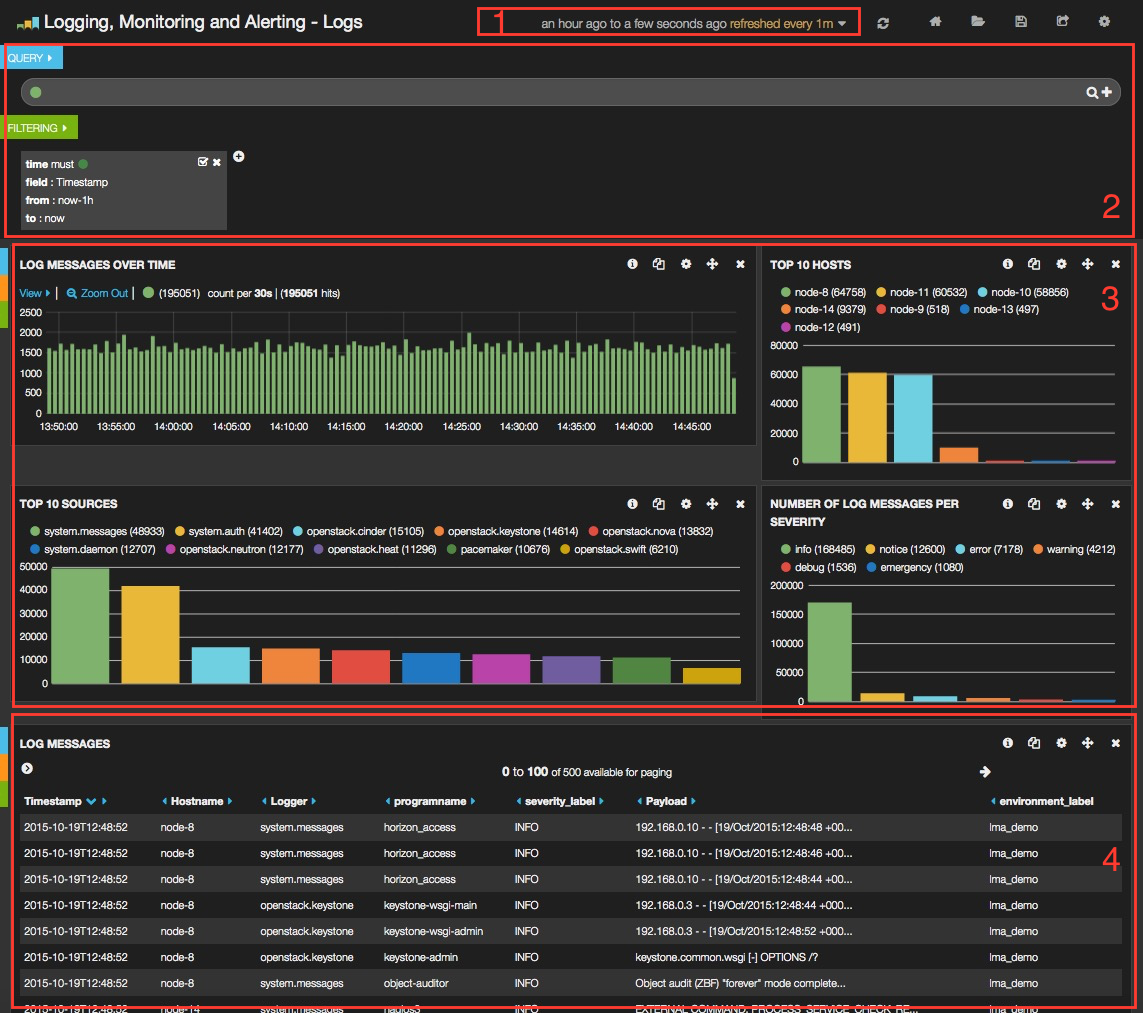
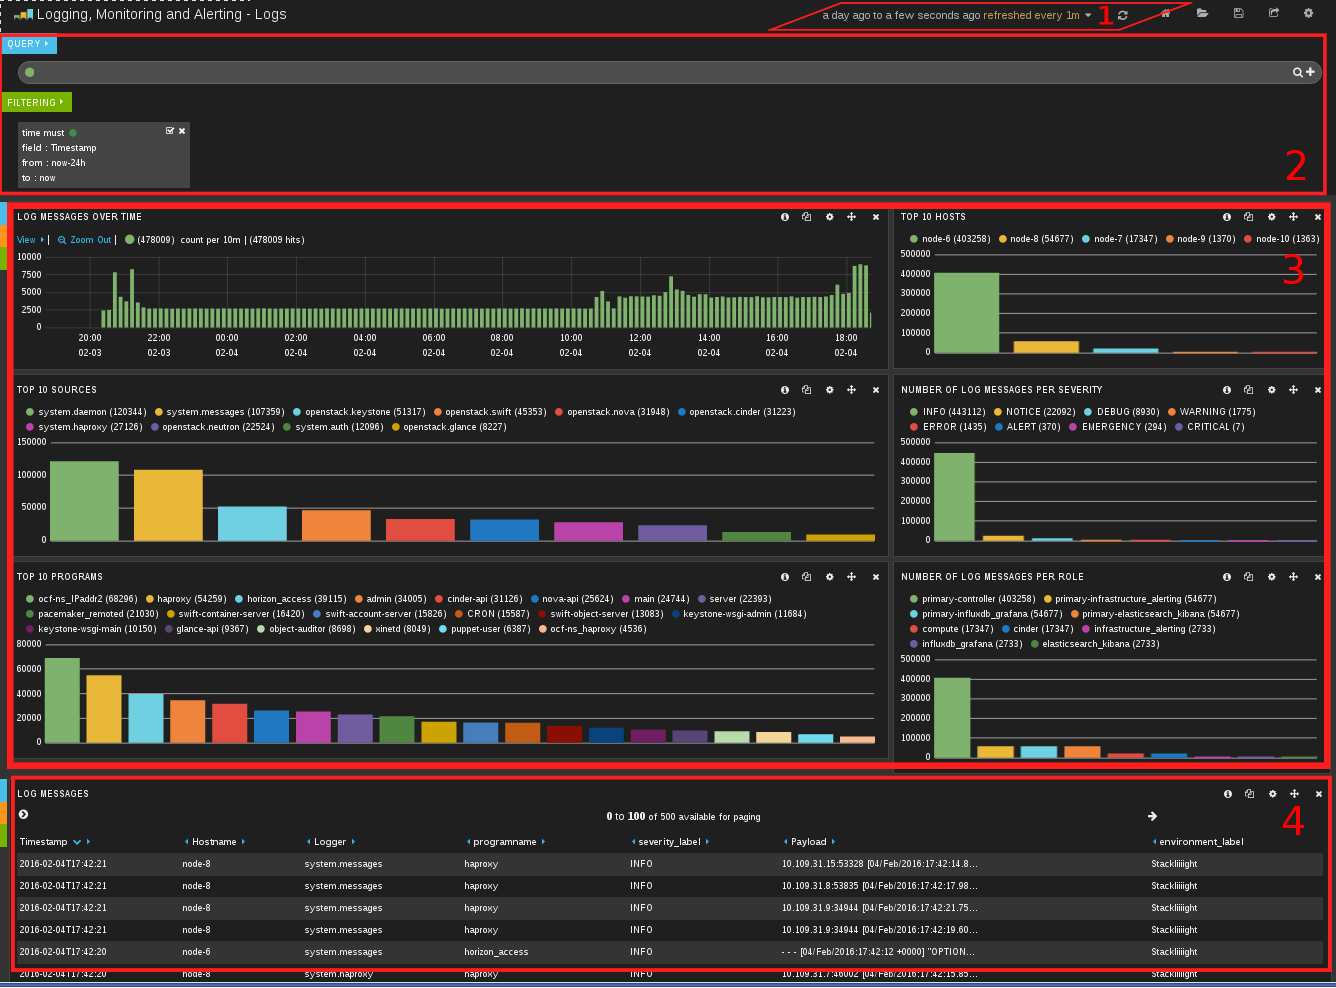
Update logs dashboard screenshot
Fixes-bug: #1541951

diff --git a/doc/source/user.rst b/doc/source/user.rst
@@ -119,6 +119,10 @@ As you can see, the Kibana dashboard for logs is divided into four main sections
 
   d. The number of log messages grouped by severity.
 
+  e. The top 10 programs.
+
+  d. The number of log messages grouped by role.
+
 4. A table of log messages sorted in reverse chronological order.
 
 Filters and queries
